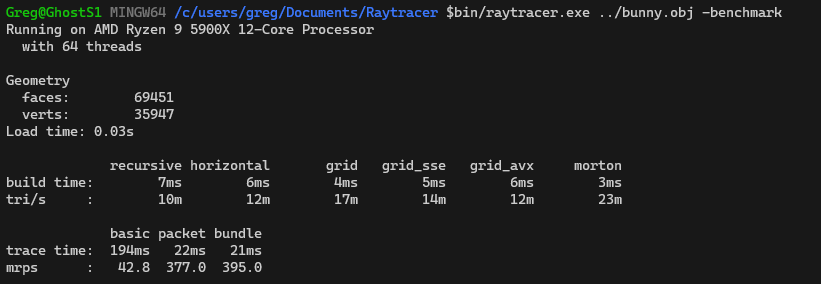
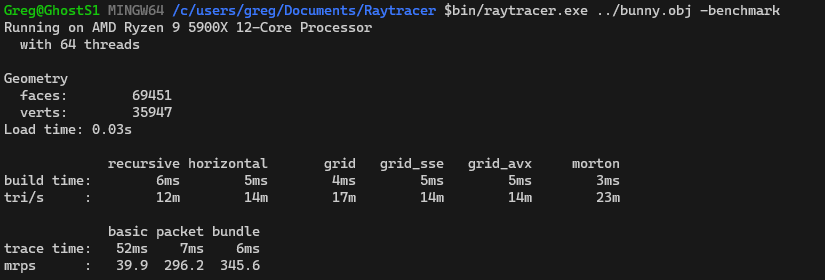
Change benchmark to 1080p

diff --git a/src/main.cpp b/src/main.cpp
@@ -362,8 +362,8 @@ void benchmark()
 	Builder::build_hierarchy_morton(primitives);
 	t[i++] = clock();
 
-	uint32_t w = 1920*2;
-	uint32_t h = 1080*2;
+	uint32_t w = 1920;
+	uint32_t h = 1080;
 	uint8_t* image1 = trace(hierarchy, w, h, vec3f1(centre.x, centre.y, 2*scene_aabb.min.z - centre.z));
 	t[i++] = clock(); 
 	uint8_t* image2 = trace_packet<8>(hierarchy, w, h, vec3f1(centre.x, centre.y, 2*scene_aabb.min.z - centre.z));
